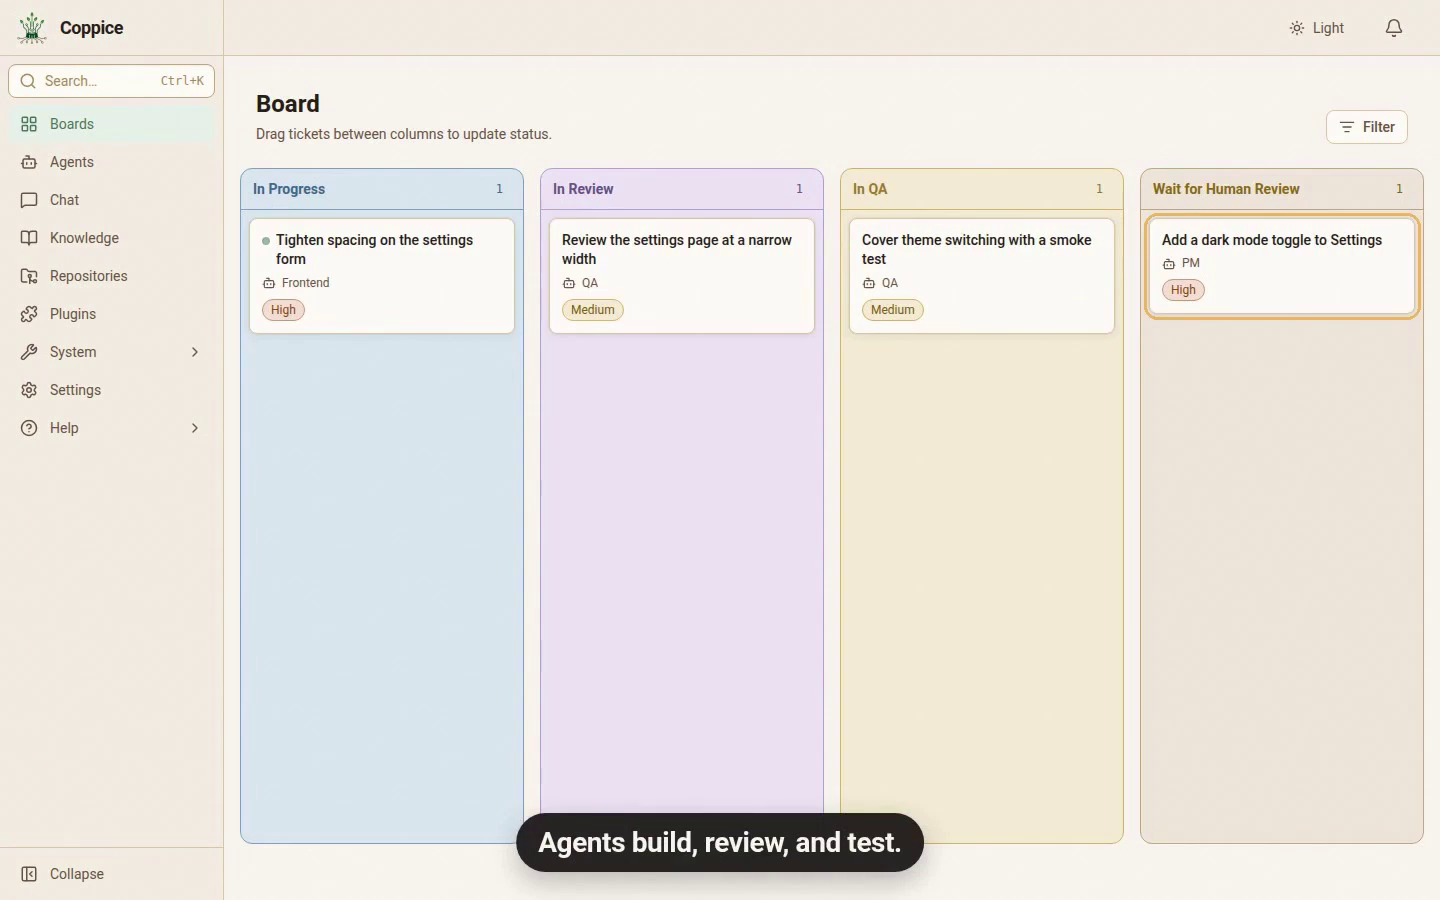
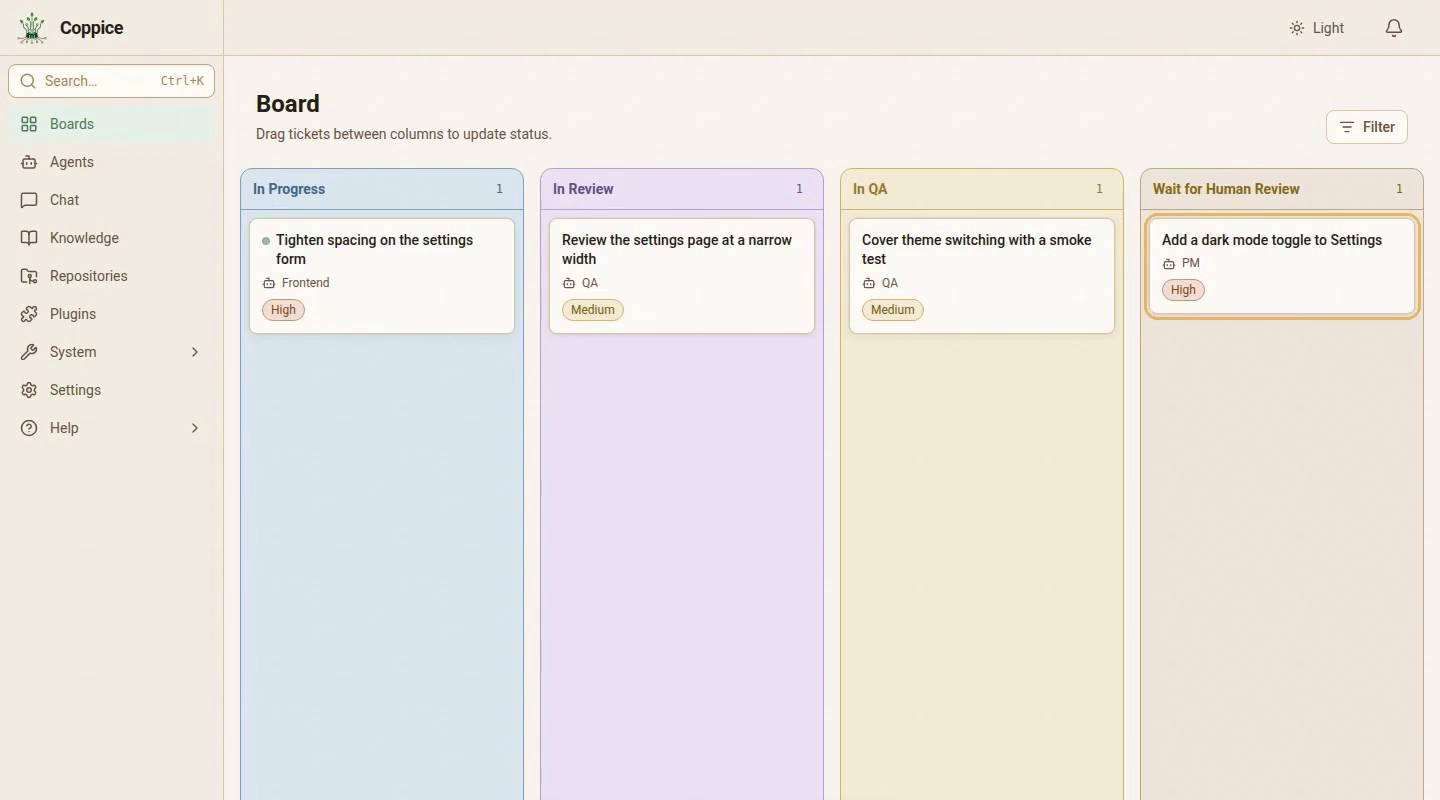
Remove the caption pills from the homepage stills
Crop the hero frames above the burned-in captions, and crop the design shot to the options dialog. Point new visitors at Getting started in one short sentence.

diff --git a/website/src/i18n/pages/en.ts b/website/src/i18n/pages/en.ts
@@ -123,7 +123,7 @@ export const homeEntry = {
   whatTitle: 'What Coppice is',
   whatBody:
     'Coppice is a desktop app for multi-agent coding. You write tickets on your own machine. The agents run CLIs you already use, such as Claude Code, Codex, and Cursor, and each ticket gets its own git worktree. You don\'t need a Coppice account. Coppice does not ask for or store a provider API key.',
-  learnBefore: 'When you want the first ticket, start with ',
+  learnBefore: 'New here? Start with ',
   learnLabel: 'Getting started',
   learnAfter: '.',
 };

diff --git a/website/src/styles/global.css b/website/src/styles/global.css
@@ -518,7 +518,6 @@ a:hover {
   display: block;
   width: 100%;
   height: auto;
-  aspect-ratio: 1440 / 900;
   border: 1px solid var(--color-bark-200);
   border-radius: 14px;
   background: var(--color-paper-100);
